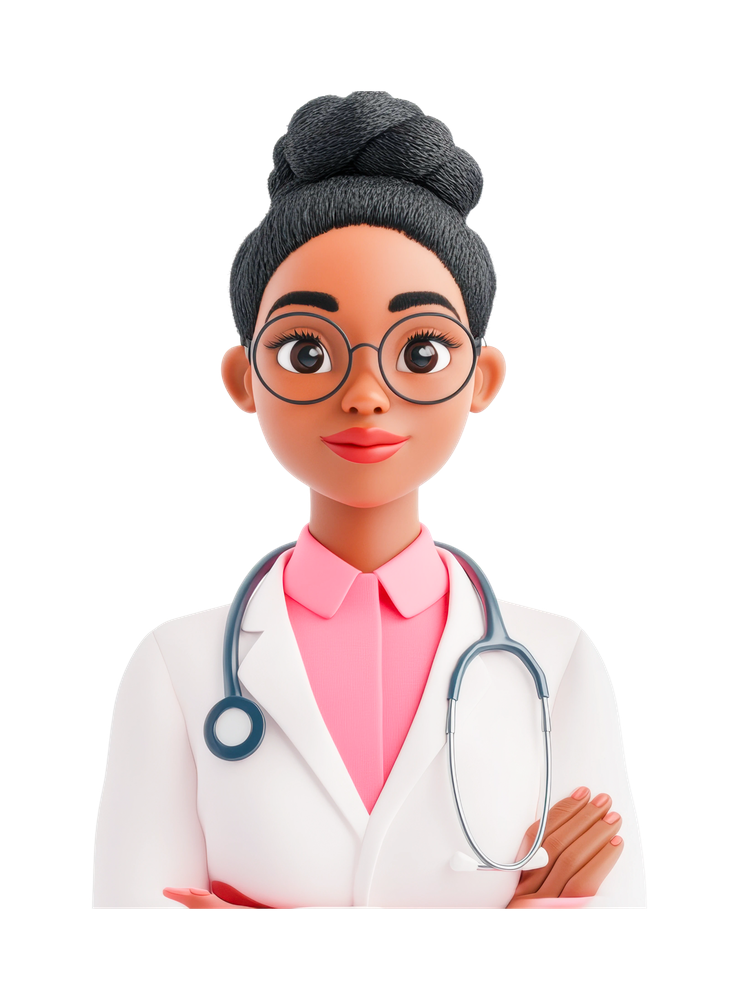
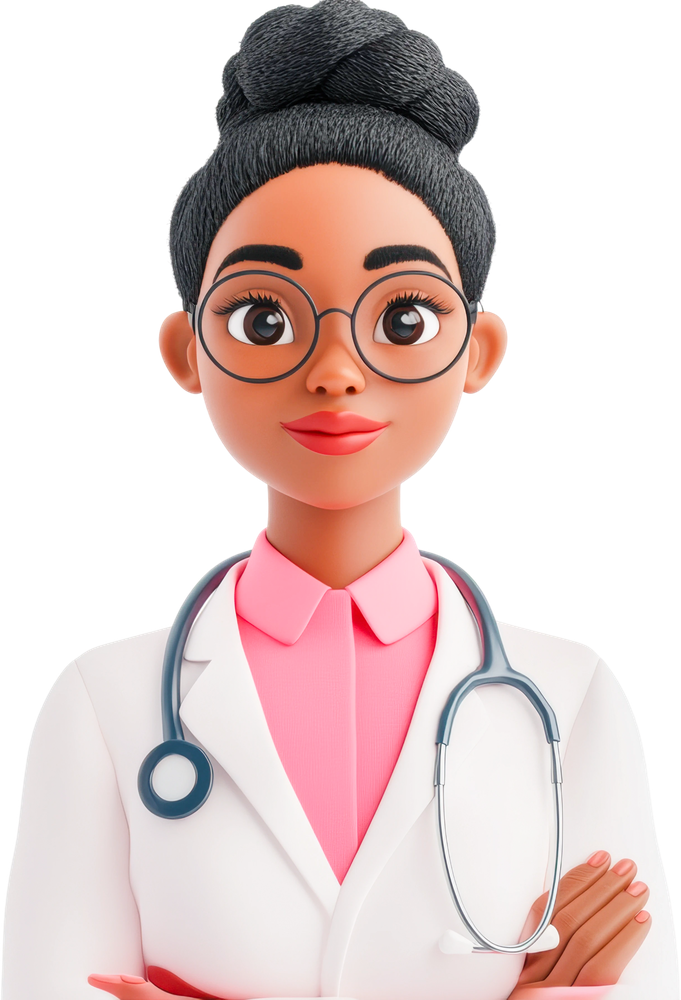
fix(ui): crop transparent bottom gap so 3D doctor stands flush on box bottom border

diff --git a/fcn-frontend/src/components/dashboard/PatientDashboard.tsx b/fcn-frontend/src/components/dashboard/PatientDashboard.tsx
@@ -157,13 +157,13 @@ export const PatientDashboard = () => {
         />
 
         {/* Overflowing 3D African Female Doctor standing on the right edge (Hidden on mobile) */}
-        <picture className="pointer-events-none absolute hidden sm:block bottom-0 right-4 lg:right-10 z-20 select-none">
+        <picture className="pointer-events-none absolute hidden sm:block bottom-0 right-6 lg:right-12 z-20 select-none leading-none">
           <source srcSet="/images/doctors/doctor-african-female.webp" type="image/webp" />
           <img
             src="/images/doctors/doctor-african-female.png"
             alt="Dr. Hanna - Fast Care Now"
             aria-hidden="true"
-            className="sm:h-60 md:h-72 lg:h-80 w-auto object-contain drop-shadow-[0_20px_35px_rgba(4,30,40,0.65)]"
+            className="block sm:h-60 md:h-72 lg:h-84 w-auto object-contain object-bottom drop-shadow-[0_20px_35px_rgba(4,30,40,0.65)]"
           />
         </picture>
 
